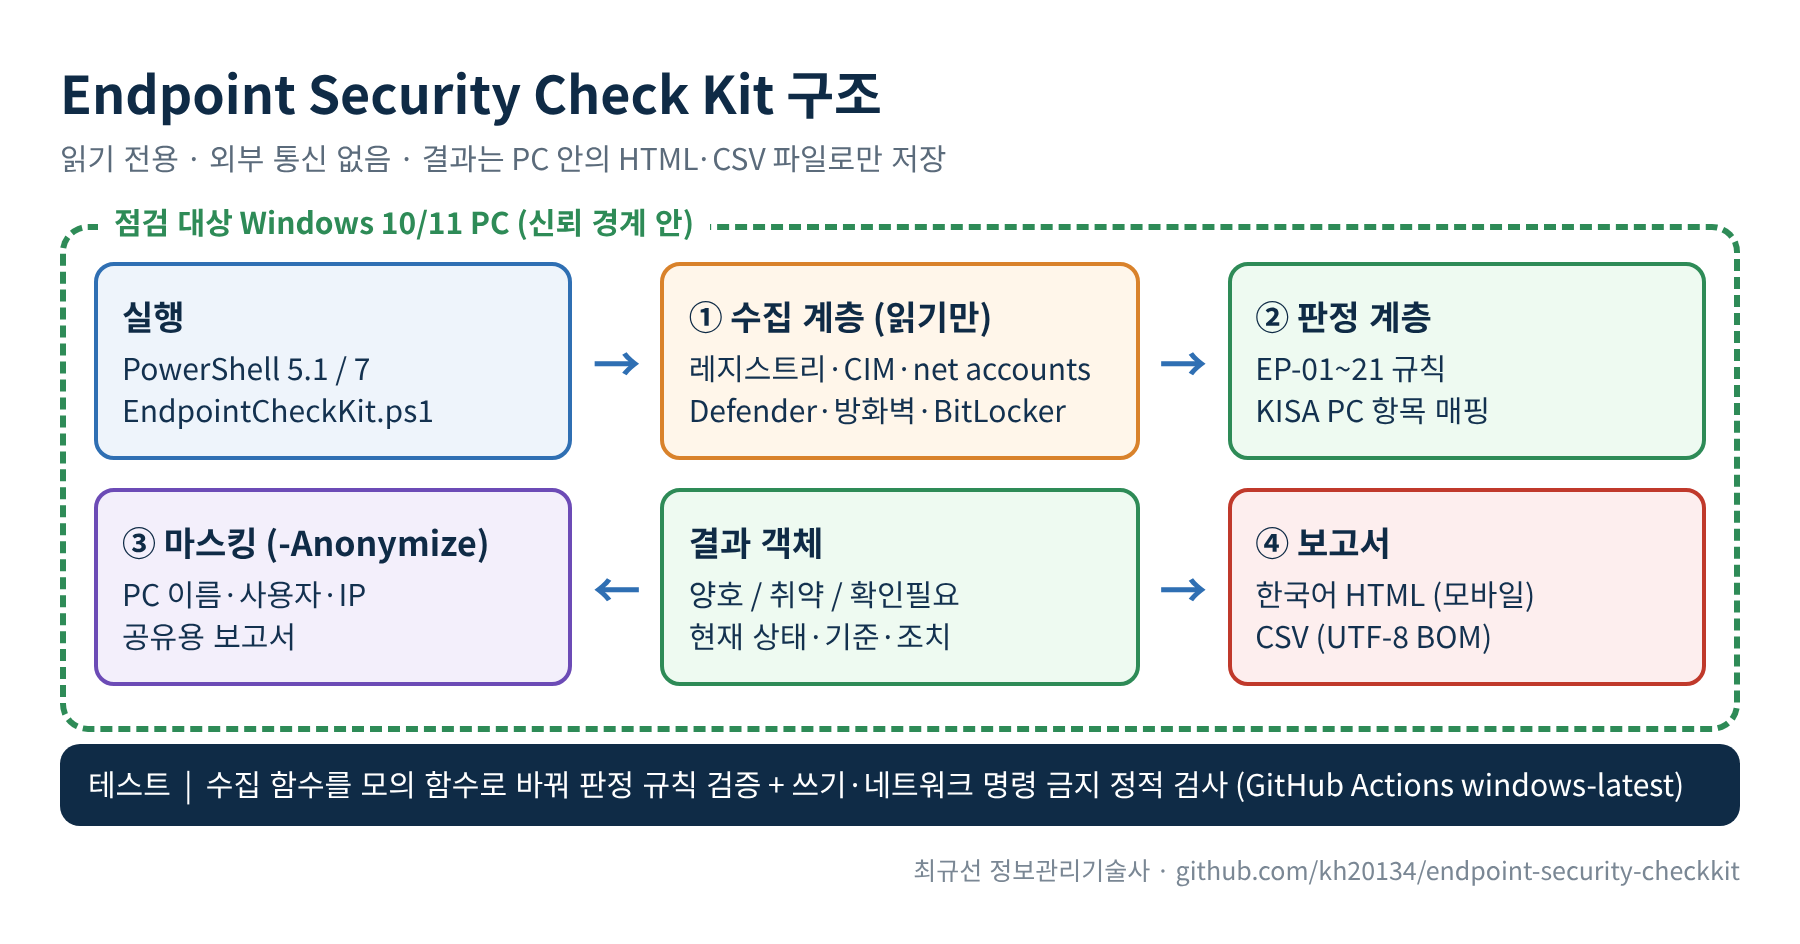
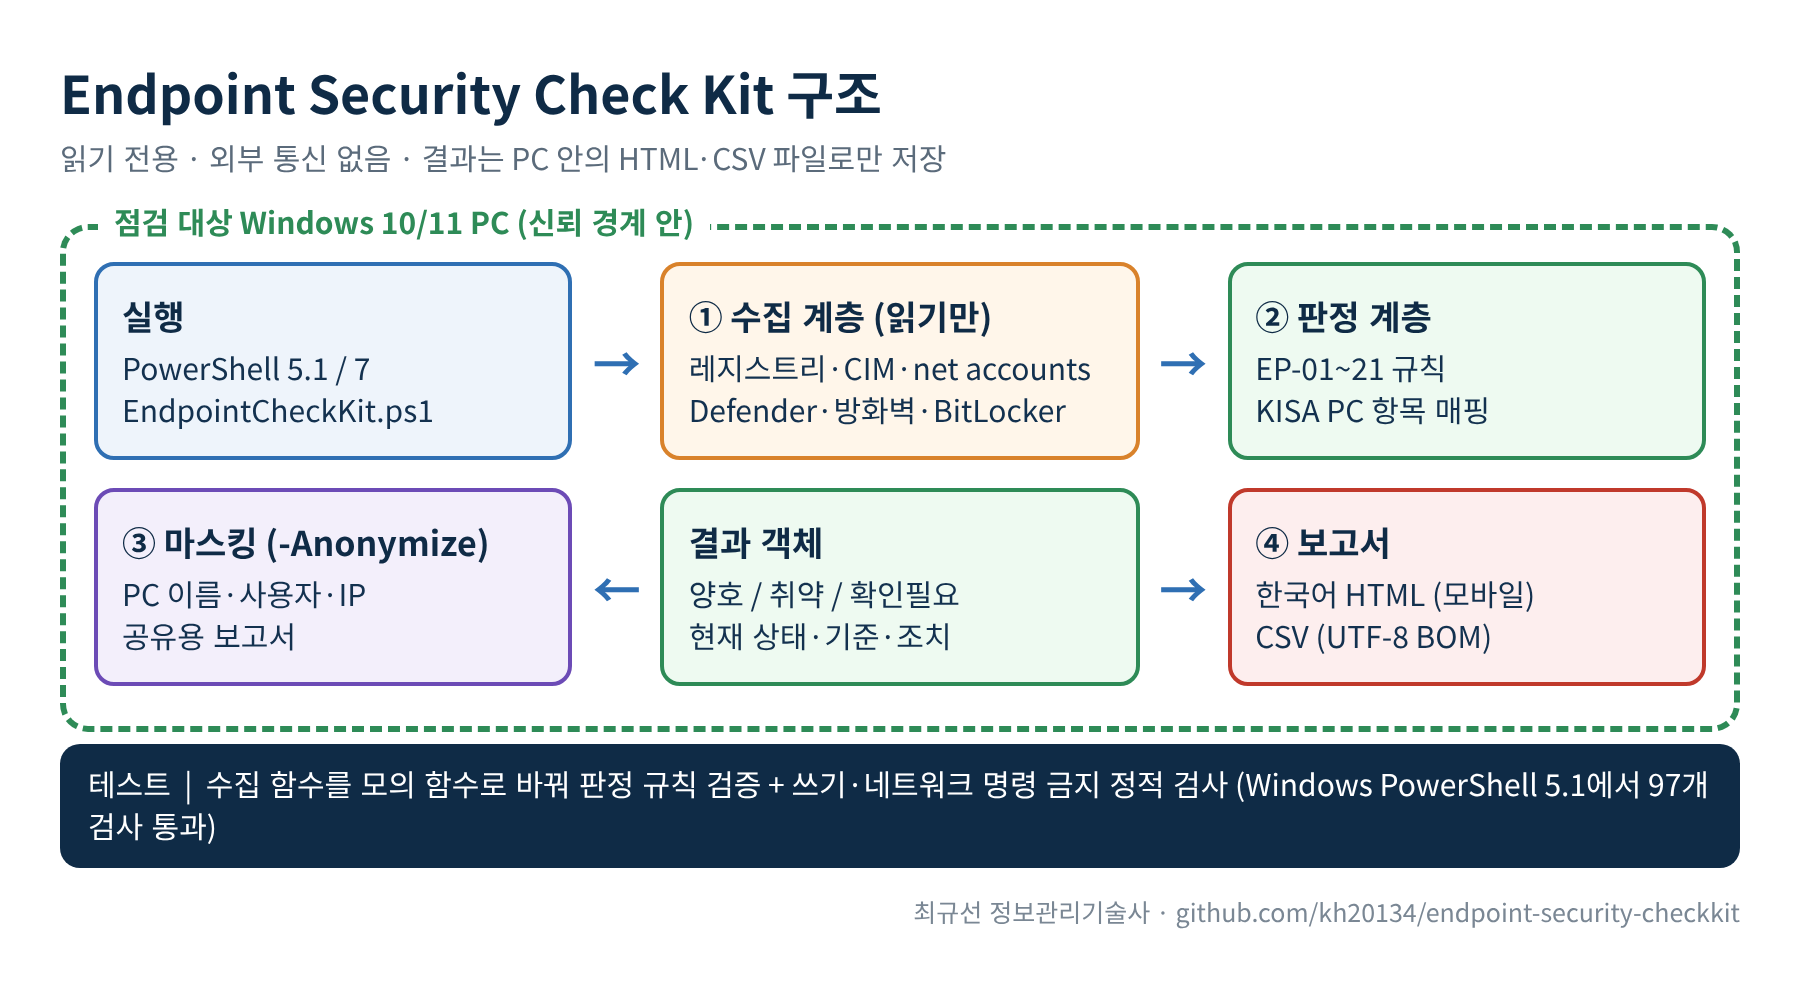
docs: clarify tested PowerShell version and CI workflow location

Changed region(s): [[0.0311, 0.215, 0.9644, 0.9523], [0.0311, 0.0614, 0.5289, 0.1843], [0.3111, 0.5837, 0.3422, 0.6451]]

diff --git a/README.md b/README.md
@@ -138,7 +138,7 @@ powershell -NoProfile -ExecutionPolicy Bypass -File .\tests\EndpointCheckKit.Tes
 pwsh -NoProfile -File .\tests\EndpointCheckKit.Tests.ps1
 ```
 
-- 외부 모듈(Pester) 없이 동작하는 테스트 러너입니다. Windows PowerShell 5.1 기본 Pester 3.x와 최신 Pester 5.x 문법 차이를 피하려고 직접 작성했습니다.
+- Windows 10 이상 기본 PowerShell 5.1에서 97개 검사 통과를 확인했습니다. 외부 모듈(Pester) 없이 동작하는 테스트 러너입니다. Windows PowerShell 5.1 기본 Pester 3.x와 최신 Pester 5.x 문법 차이를 피하려고 직접 작성했습니다.
 - 검사 내용: PowerShell 구문, 쓰기·네트워크 명령 금지 패턴(읽기 전용 가드), UTF-8 BOM, 21개 항목 판정(양호·취약·확인필요 경계값, 한국어 `net accounts` 출력, 비관리자 실행, 수집 오류 처리), 마스킹, HTML 이스케이프.
 - GitHub Actions(`windows-latest`)에서 Windows PowerShell 5.1과 PowerShell 7로 각각 실행하는 워크플로를 [ci/github-actions-ci.yml](ci/github-actions-ci.yml)에 두었습니다. 포크해서 쓸 때 `.github/workflows/`로 옮기면 동작합니다.
 
